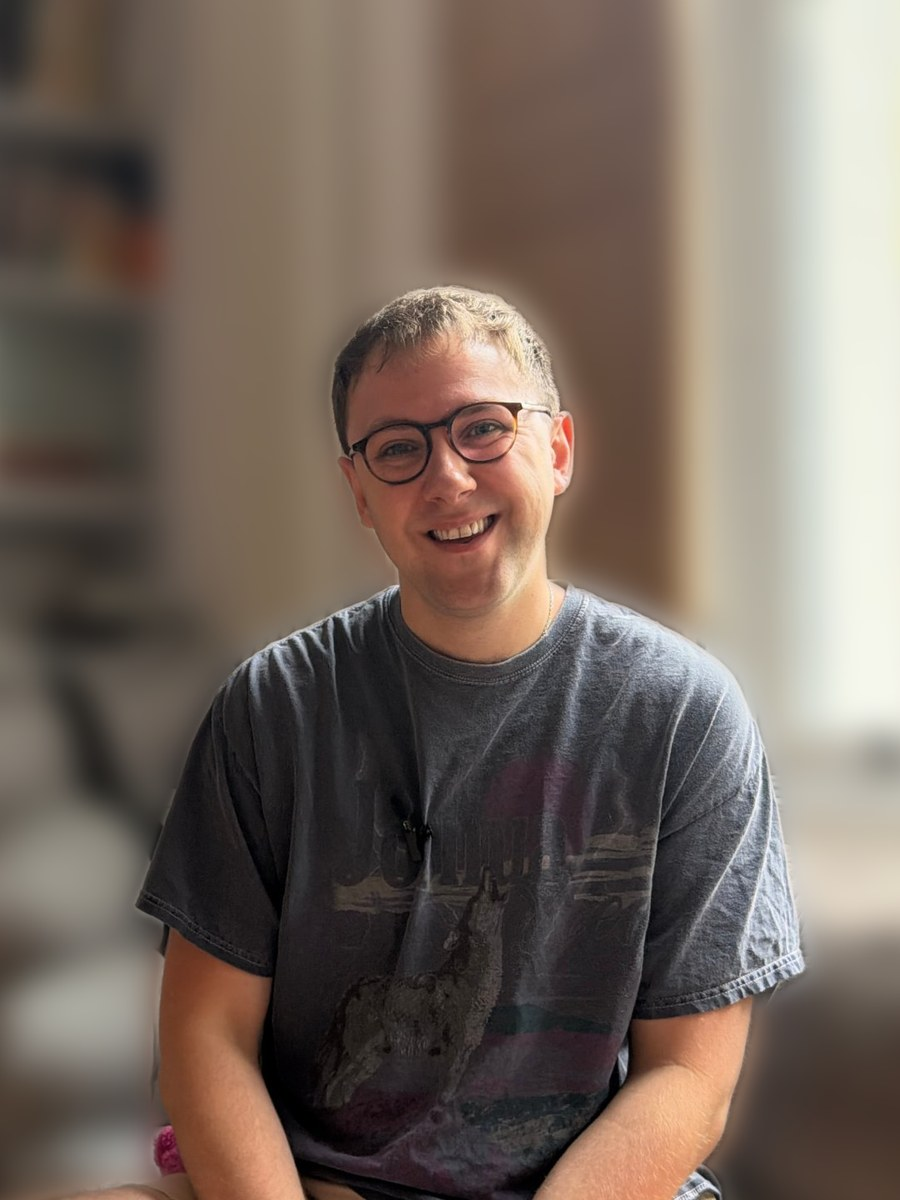
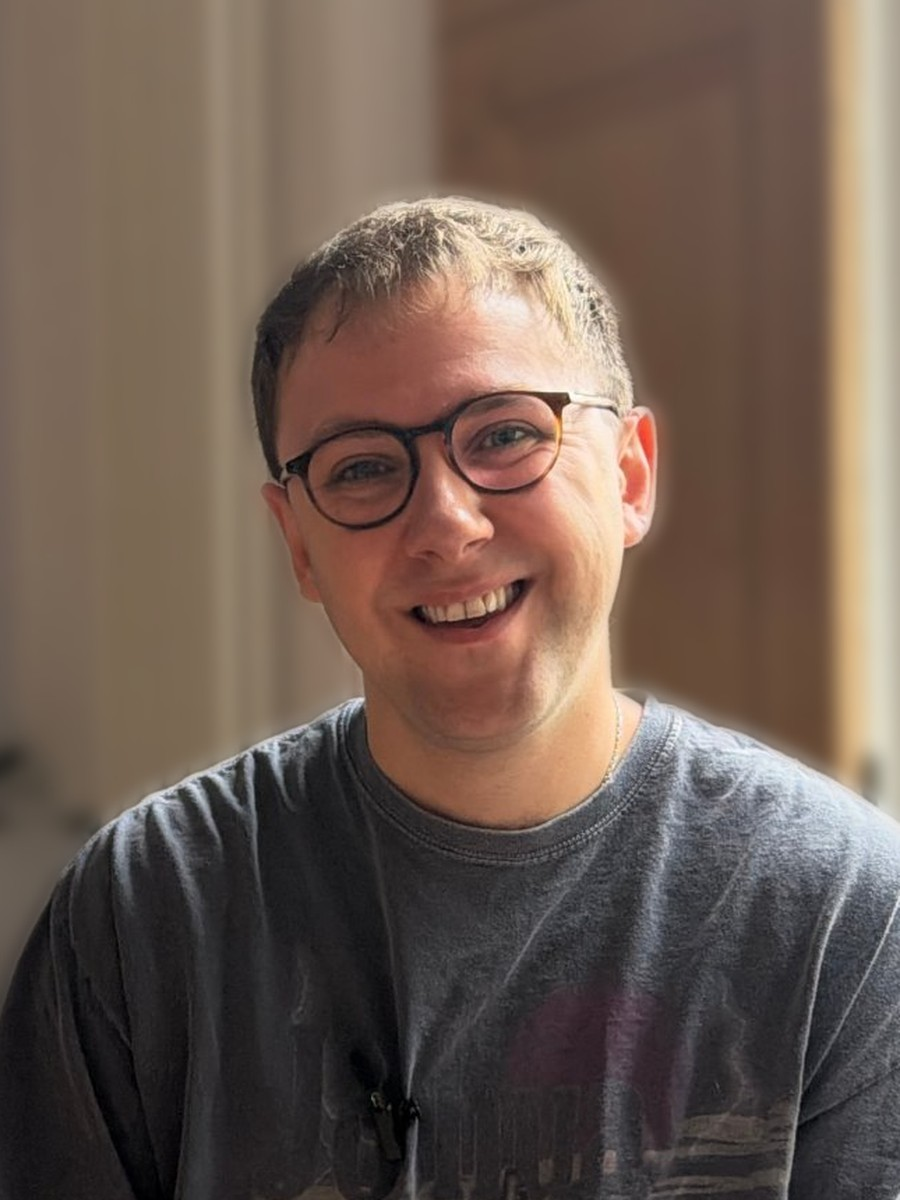
Brandon photo: tighter crop to match the other cards, lighter background blur
Claude-Session: https://claude.ai/code/session_019JSQQoEFRUbrFzpqZ1j5LB

diff --git a/src/components/sections/MoreFromFounders.tsx b/src/components/sections/MoreFromFounders.tsx
@@ -20,7 +20,7 @@ export const videoCards = [
   { name: "Galeen\nMegerditchian", company: "Paid media and brand marketing manager, London", localVideo: "/videos/galeen-testimonial-v2.mp4", poster: "/videos/galeen-testimonial-v2-poster.jpg", cover: galeenCover },
   { name: "Philip\nChristiansen", company: "Hypnotist, Copenhagen", localVideo: "/videos/philip-testimonial-v2.mp4", poster: "/videos/philip-testimonial-v3-poster.jpg", cover: philipCover },
   { name: "Bianca\nPolizzi", company: "Polizzi Media", localVideo: "/videos/bianca-testimonial.mp4", poster: "/videos/bianca-testimonial-poster.jpg", cover: biancaCover },
-  { name: "Brandon\nHadwin", company: "HealingwithBrandon", localVideo: "/videos/brandon-testimonial.mp4", poster: "/videos/brandon-testimonial-v2-poster.jpg", cover: brandonCover },
+  { name: "Brandon\nHadwin", company: "HealingwithBrandon", localVideo: "/videos/brandon-testimonial.mp4", poster: "/videos/brandon-testimonial-v3-poster.jpg", cover: brandonCover },
   { name: "Jessica\nRainey", company: "Wildflower Woman", localVideo: "/videos/jessica-testimonial.mp4", poster: "/videos/jessica-testimonial-poster.jpg", cover: jessicaCover },
   { name: "Alexandra\nFeldman", company: "Of The Islands", localVideo: "/videos/alexandra-testimonial.mp4", poster: "/videos/alexandra-testimonial-poster.jpg", cover: alexandraCover },
 ];

diff --git a/src/pages/Apply.tsx b/src/pages/Apply.tsx
@@ -118,7 +118,7 @@ function ItemList({ items, positive, negativeRed = false }: { items: string[]; p
 const videoStories = cases.filter((story) => story.photo);
 const textStories = cases.filter((story) => !story.photo);
 const testimonialVideos: Record<string, { src: string; poster: string }> = {
-  "Brandon Hadwin": { src: "/videos/brandon-testimonial.mp4", poster: "/videos/brandon-testimonial-v2-poster.jpg" },
+  "Brandon Hadwin": { src: "/videos/brandon-testimonial.mp4", poster: "/videos/brandon-testimonial-v3-poster.jpg" },
   "Alexandra Feldman": { src: "/videos/alexandra-testimonial.mp4", poster: "/videos/alexandra-testimonial-poster.jpg" },
   "Jessica Rainey": { src: "/videos/jessica-testimonial.mp4", poster: "/videos/jessica-testimonial-poster.jpg" },
 };
